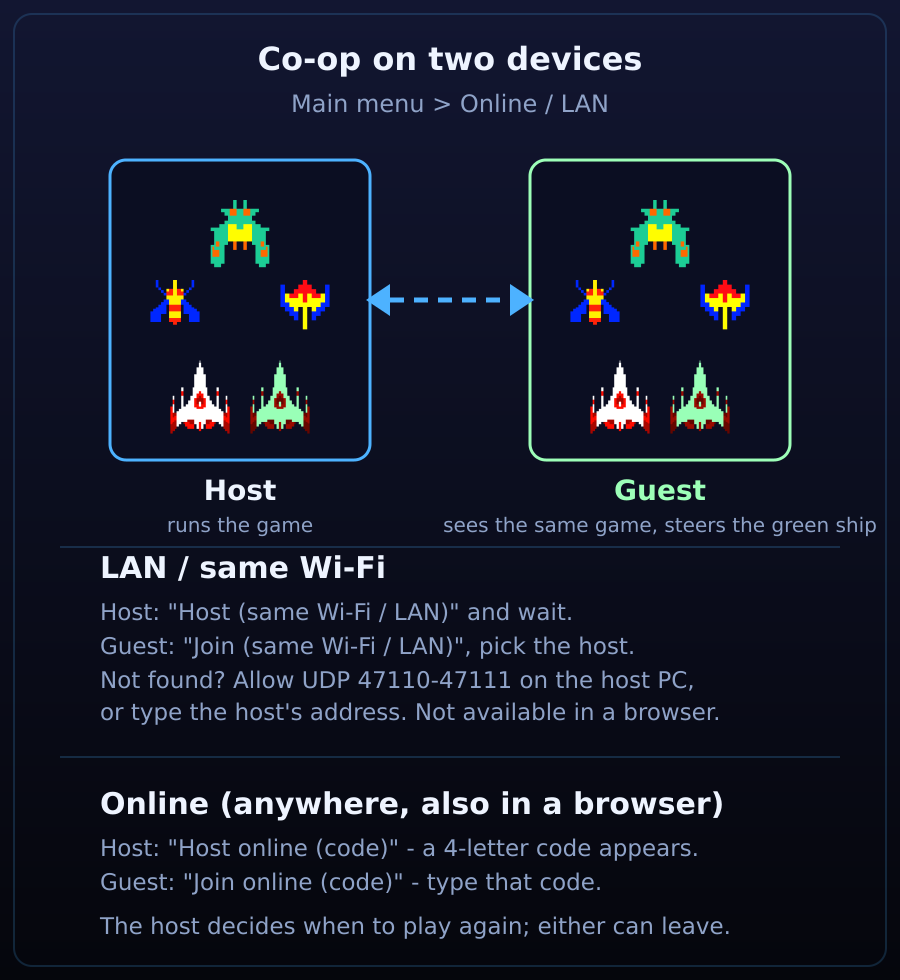
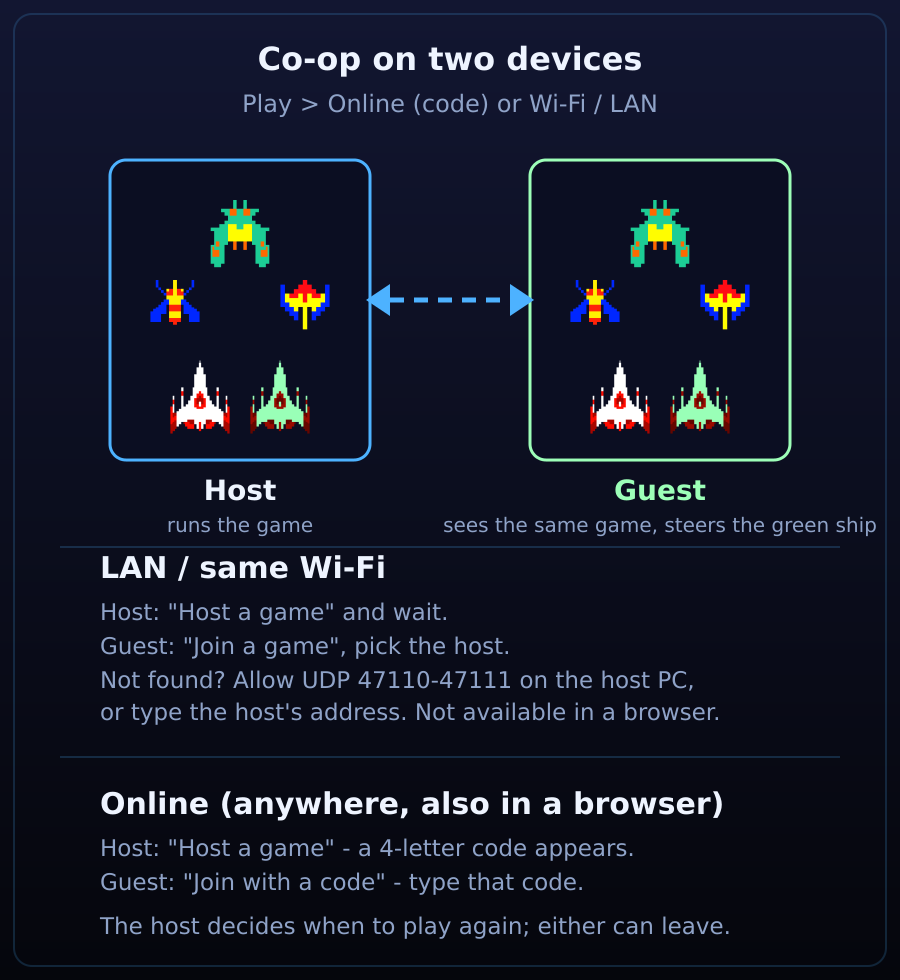
Version 1.3.0: Modus-Auswahl (1/2 Spieler, Online, LAN) hinter Play statt eigenem Titel-Button

Changed region(s): [[0.28, 0.8571, 0.7778, 0.9184], [0.2489, 0.6122, 0.6844, 0.6735], [0.28, 0.0918, 0.7467, 0.1224]]

diff --git a/CLAUDE.md b/CLAUDE.md
@@ -2765,6 +2765,17 @@ Testwerkzeug-Eigenheit, kein Spielfehler).
   `NetGuest` ersetzt jeden `closed`/`error`-Text jetzt durch „The host left the
   game or the connection was lost.“ (Lobby-Fehler beim Beitreten zeigen den
   Relay-Text weiterhin, z. B. falscher Code).
+- **v1.3.0 (2026-10-05): Modus-Auswahl hinter „Play“ (Nutzerwunsch, wie
+  mario-clone/pacman).** Der Titel-Button „Online / LAN“ ist weg; „Play“ öffnet
+  den Bildschirm `mode` („HOW DO YOU WANT TO PLAY?“): 1 Player / 2 Players -
+  turns / 2 Players - co-op (→ Beitreten-Bildschirm) und darunter „on separate
+  devices“: Online (code) / Wi-Fi / LAN (nur nativ). Die lokale Wahl wird in
+  `players`/`coop` der Einstellungen gespeichert und beim nächsten Mal
+  vorausgewählt (der Stepper „Players“ in den Einstellungen bleibt, zeigt
+  denselben Wert). `NetLobby.open("online"|"lan")` öffnet `net_online` bzw.
+  `net_lan` (Host/Join), „Back“/„Cancel“ führen über `_origin` dorthin zurück,
+  die Zurück-Buttons dieser Bildschirme zu `mode`. Hilfe-Texte (`coop.svg`,
+  `online.svg`) auf die neuen Menüwege umgestellt.
 - **Noch offen**: auf weiteren Geräten testen (Handy, Mobilnetz),
   ggf. unzuverlässige
   Übertragung für Schnappschüsse (aktuell zuverlässig/geordnet — bei schlechter
